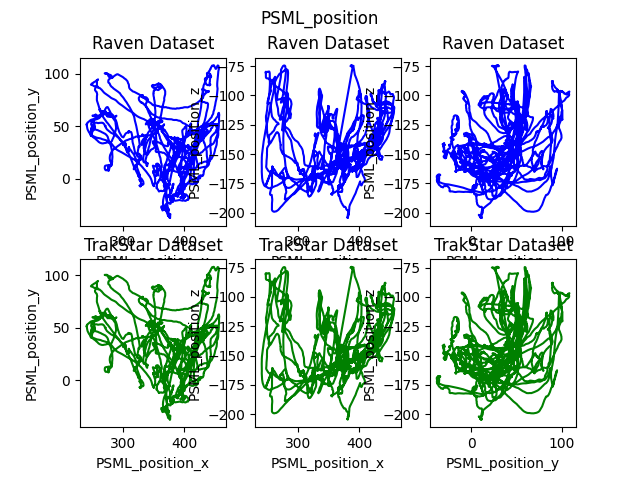
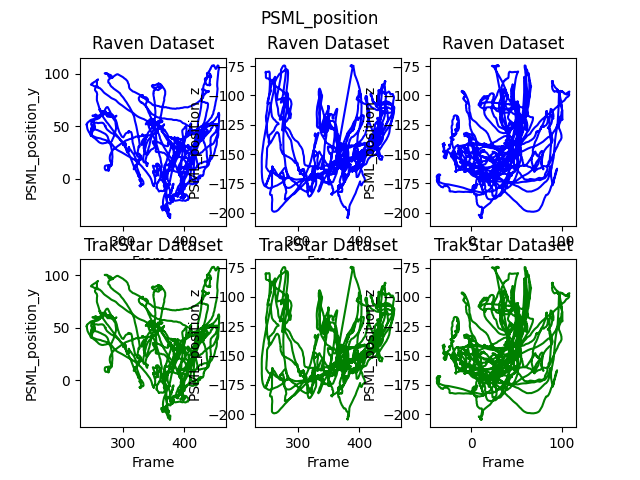
Update plots and report

diff --git a/comparision_plots.py b/comparision_plots.py
@@ -12,37 +12,37 @@ def threeD_side_by_side(raven_df, trakstar_df, x, y, z, title=""):
     plt.subplot(2, 3, 1)
     plt.plot(x_coords_raven, y_coords_raven, color='blue')
     plt.title('Raven Dataset')
-    plt.xlabel(x)
+    plt.xlabel("Frame")
     plt.ylabel(y)
 
     plt.subplot(2, 3, 2)
     plt.plot(x_coords_raven, z_coords_raven, color='blue')
     plt.title('Raven Dataset')
-    plt.xlabel(x)
+    plt.xlabel("Frame")
     plt.ylabel(z)
 
     plt.subplot(2, 3, 3)
     plt.plot(y_coords_raven, z_coords_raven, color='blue')
     plt.title('Raven Dataset')
-    plt.xlabel(y)
+    plt.xlabel("Frame")
     plt.ylabel(z)
 
     plt.subplot(2, 3, 4)
     plt.plot(x_coords_trakstar, y_coords_trakstar, color='green')
     plt.title('TrakStar Dataset')
-    plt.xlabel(x)
+    plt.xlabel("Frame")
     plt.ylabel(y)
 
     plt.subplot(2, 3, 5)
     plt.plot(x_coords_trakstar, z_coords_trakstar, color='green')
     plt.title('TrakStar Dataset')
-    plt.xlabel(x)
+    plt.xlabel("Frame")
     plt.ylabel(z)
 
     plt.subplot(2, 3, 6)
     plt.plot(y_coords_trakstar, z_coords_trakstar, color='green')
     plt.title('TrakStar Dataset')
-    plt.xlabel(y)
+    plt.xlabel("Frame")
     plt.ylabel(z)
 
     plt.suptitle(title)

diff --git a/Report.md b/Report.md
@@ -1,0 +1,11 @@
+The stacked plots demonstrate a clear relationship between velocity and position, as higher velocities result in more significant changes in position, indicating a direct correlation.
+
+In the comparison and overlap plots, the XYZ positions and angles for both PSML and PSMR are generally consistent, with any minor differences not easily discernible from the graphs. This suggests that the TrakStar system is highly accurate.
+
+There are areas that could be improved. I primarily tested the code with the T2 dataset, although I did check the format of other datasets to ensure consistency. I believe the code is generalized enough to handle similar data formats.
+
+For data cleaning, I opted to retain only entries with corresponding timestamps in both datasets. While I explored filling in missing data using median values, the "Frame" column proved challenging to handle. Given that the amount of data lost by removing certain entries is negligible compared to the overall dataset, I decided this approach was sufficient.
+
+The exploratory data analysis (EDA) could be expanded by adjusting the variables, but many key relationships are already evident. The dynamic plotting with video could be improved by embedding the plots directly into the video, rather than displaying in separate windows. Additionally, there seems to be a slight lag (1-2 seconds) between the video and data plotting, likely due to either the data cleaning process or the time required for plotting. This could be optimized.
+
+I’m preparing for the GRE this weekend, so I had to wrap this task up quickly. While there is room for improvement, I believe this demonstrates my ability to work with data, learn new tools like OpenCV, and solve problems efficiently.
